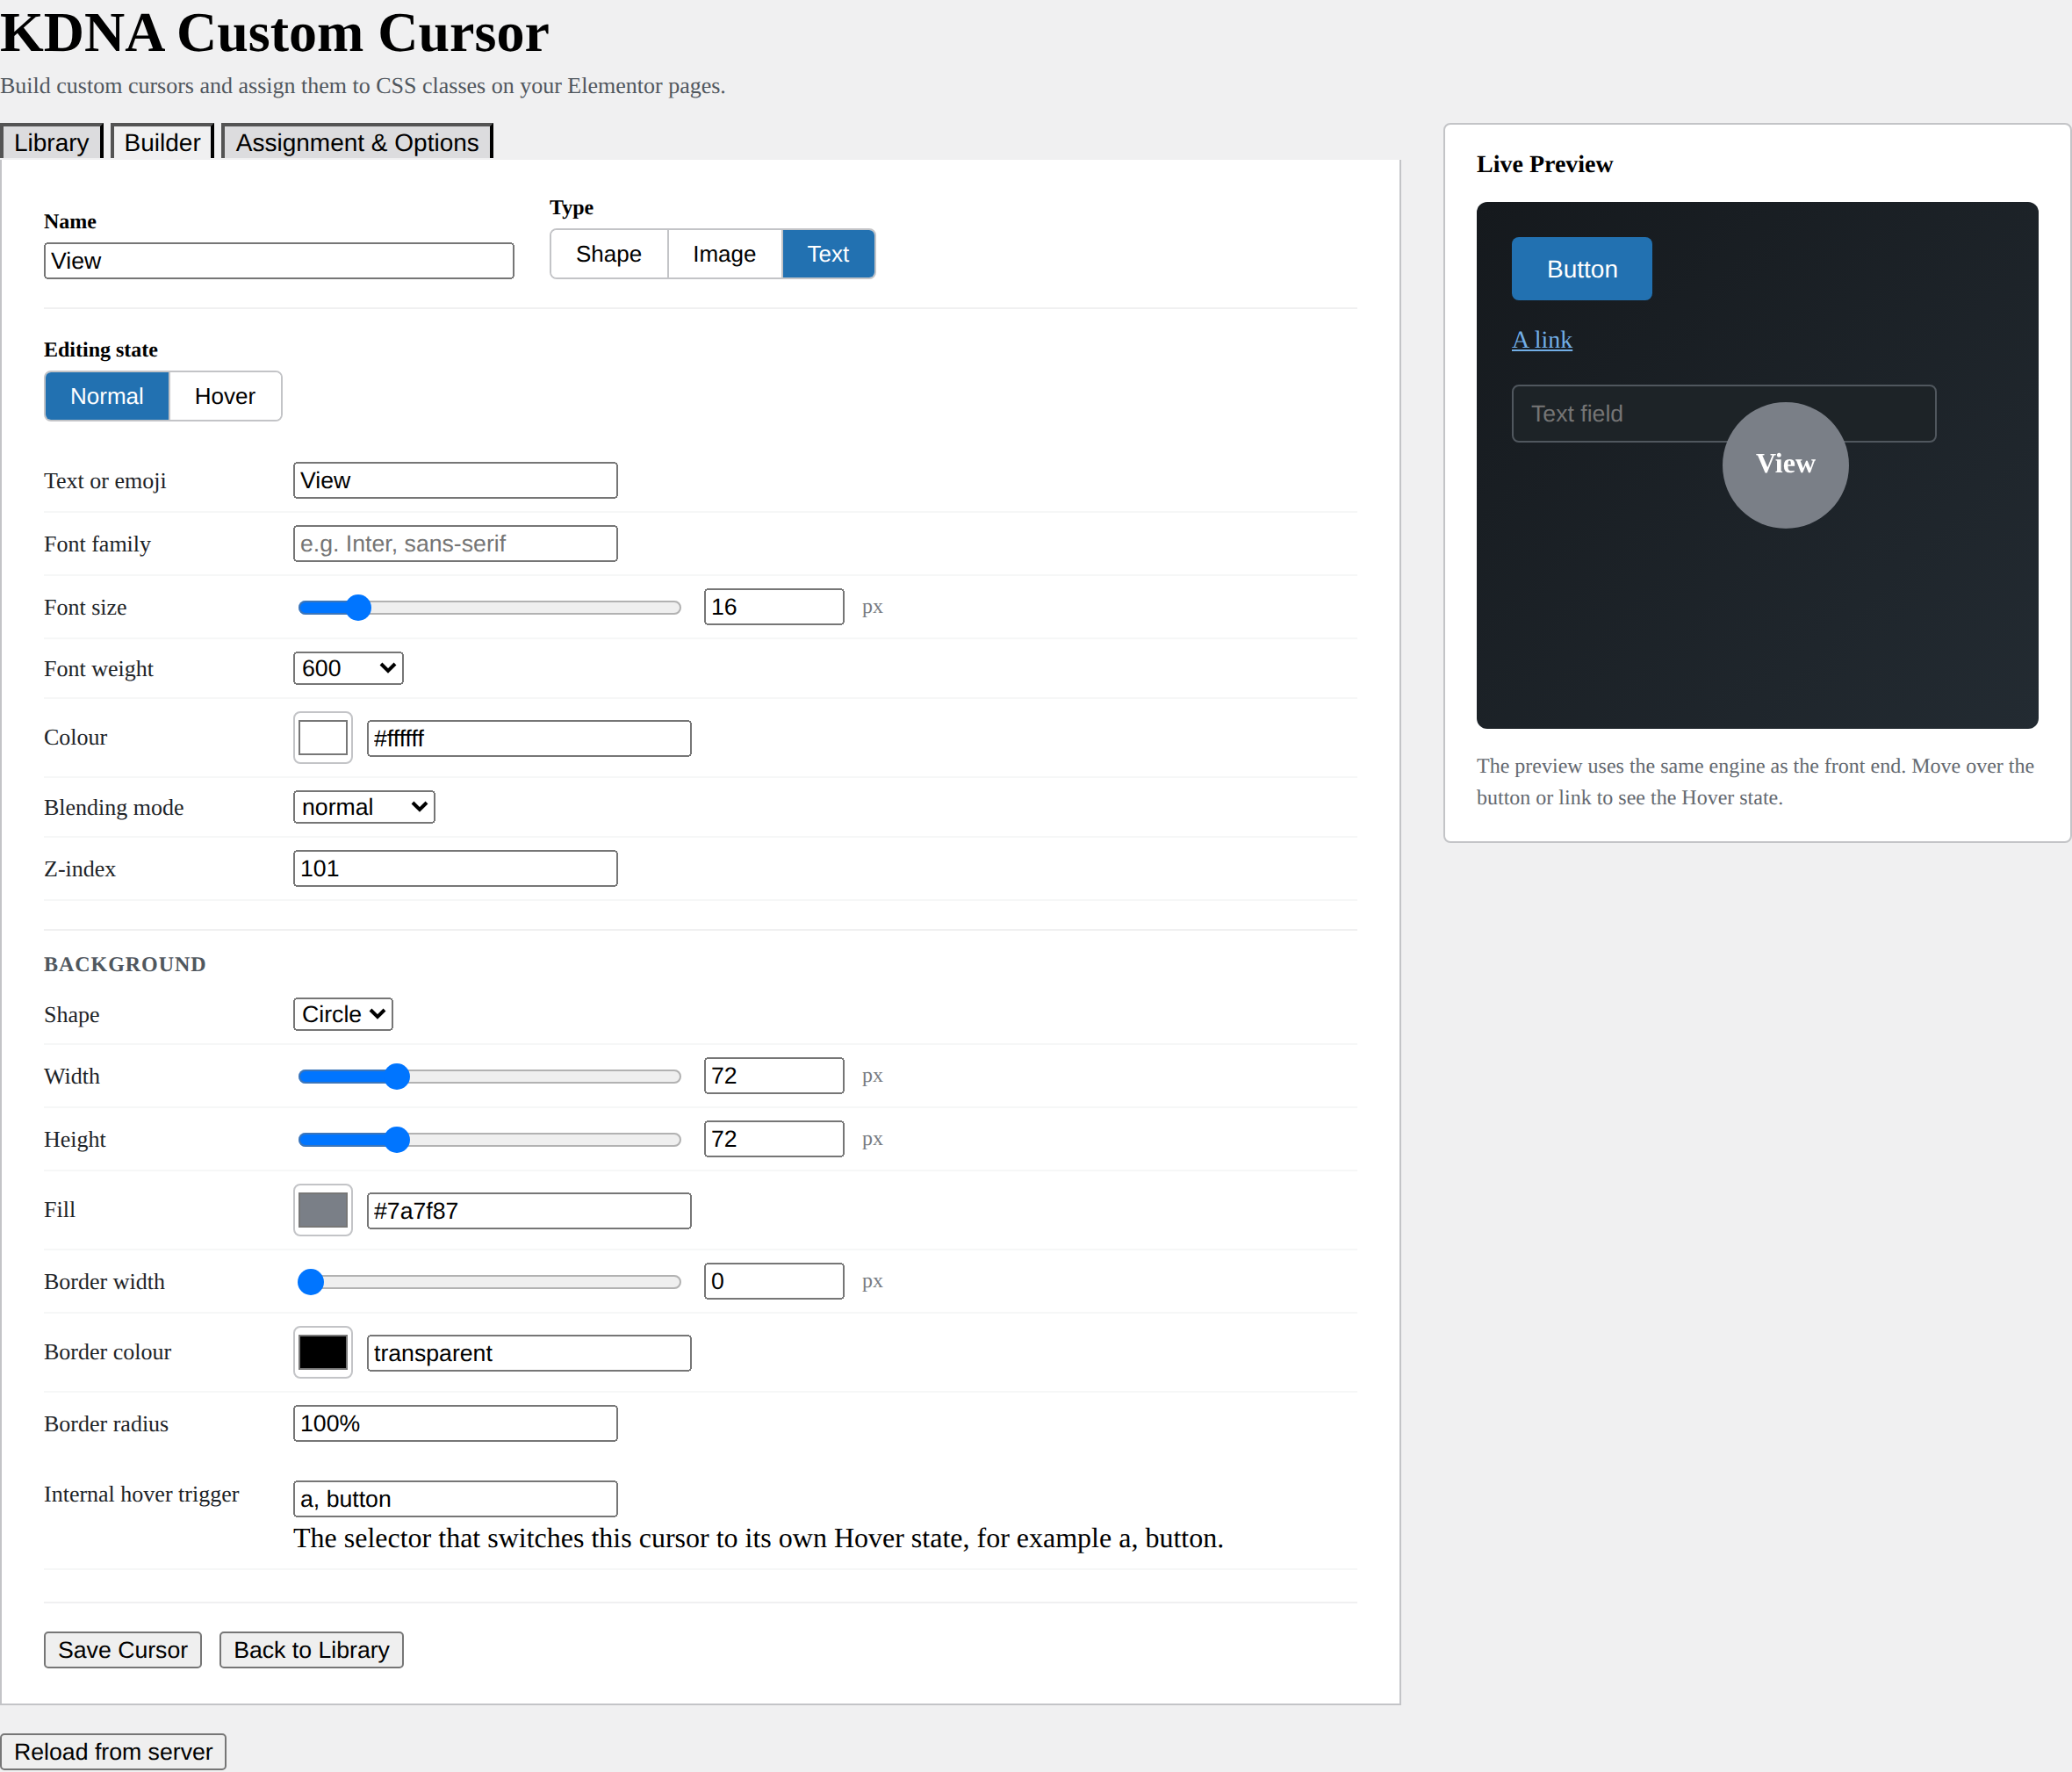
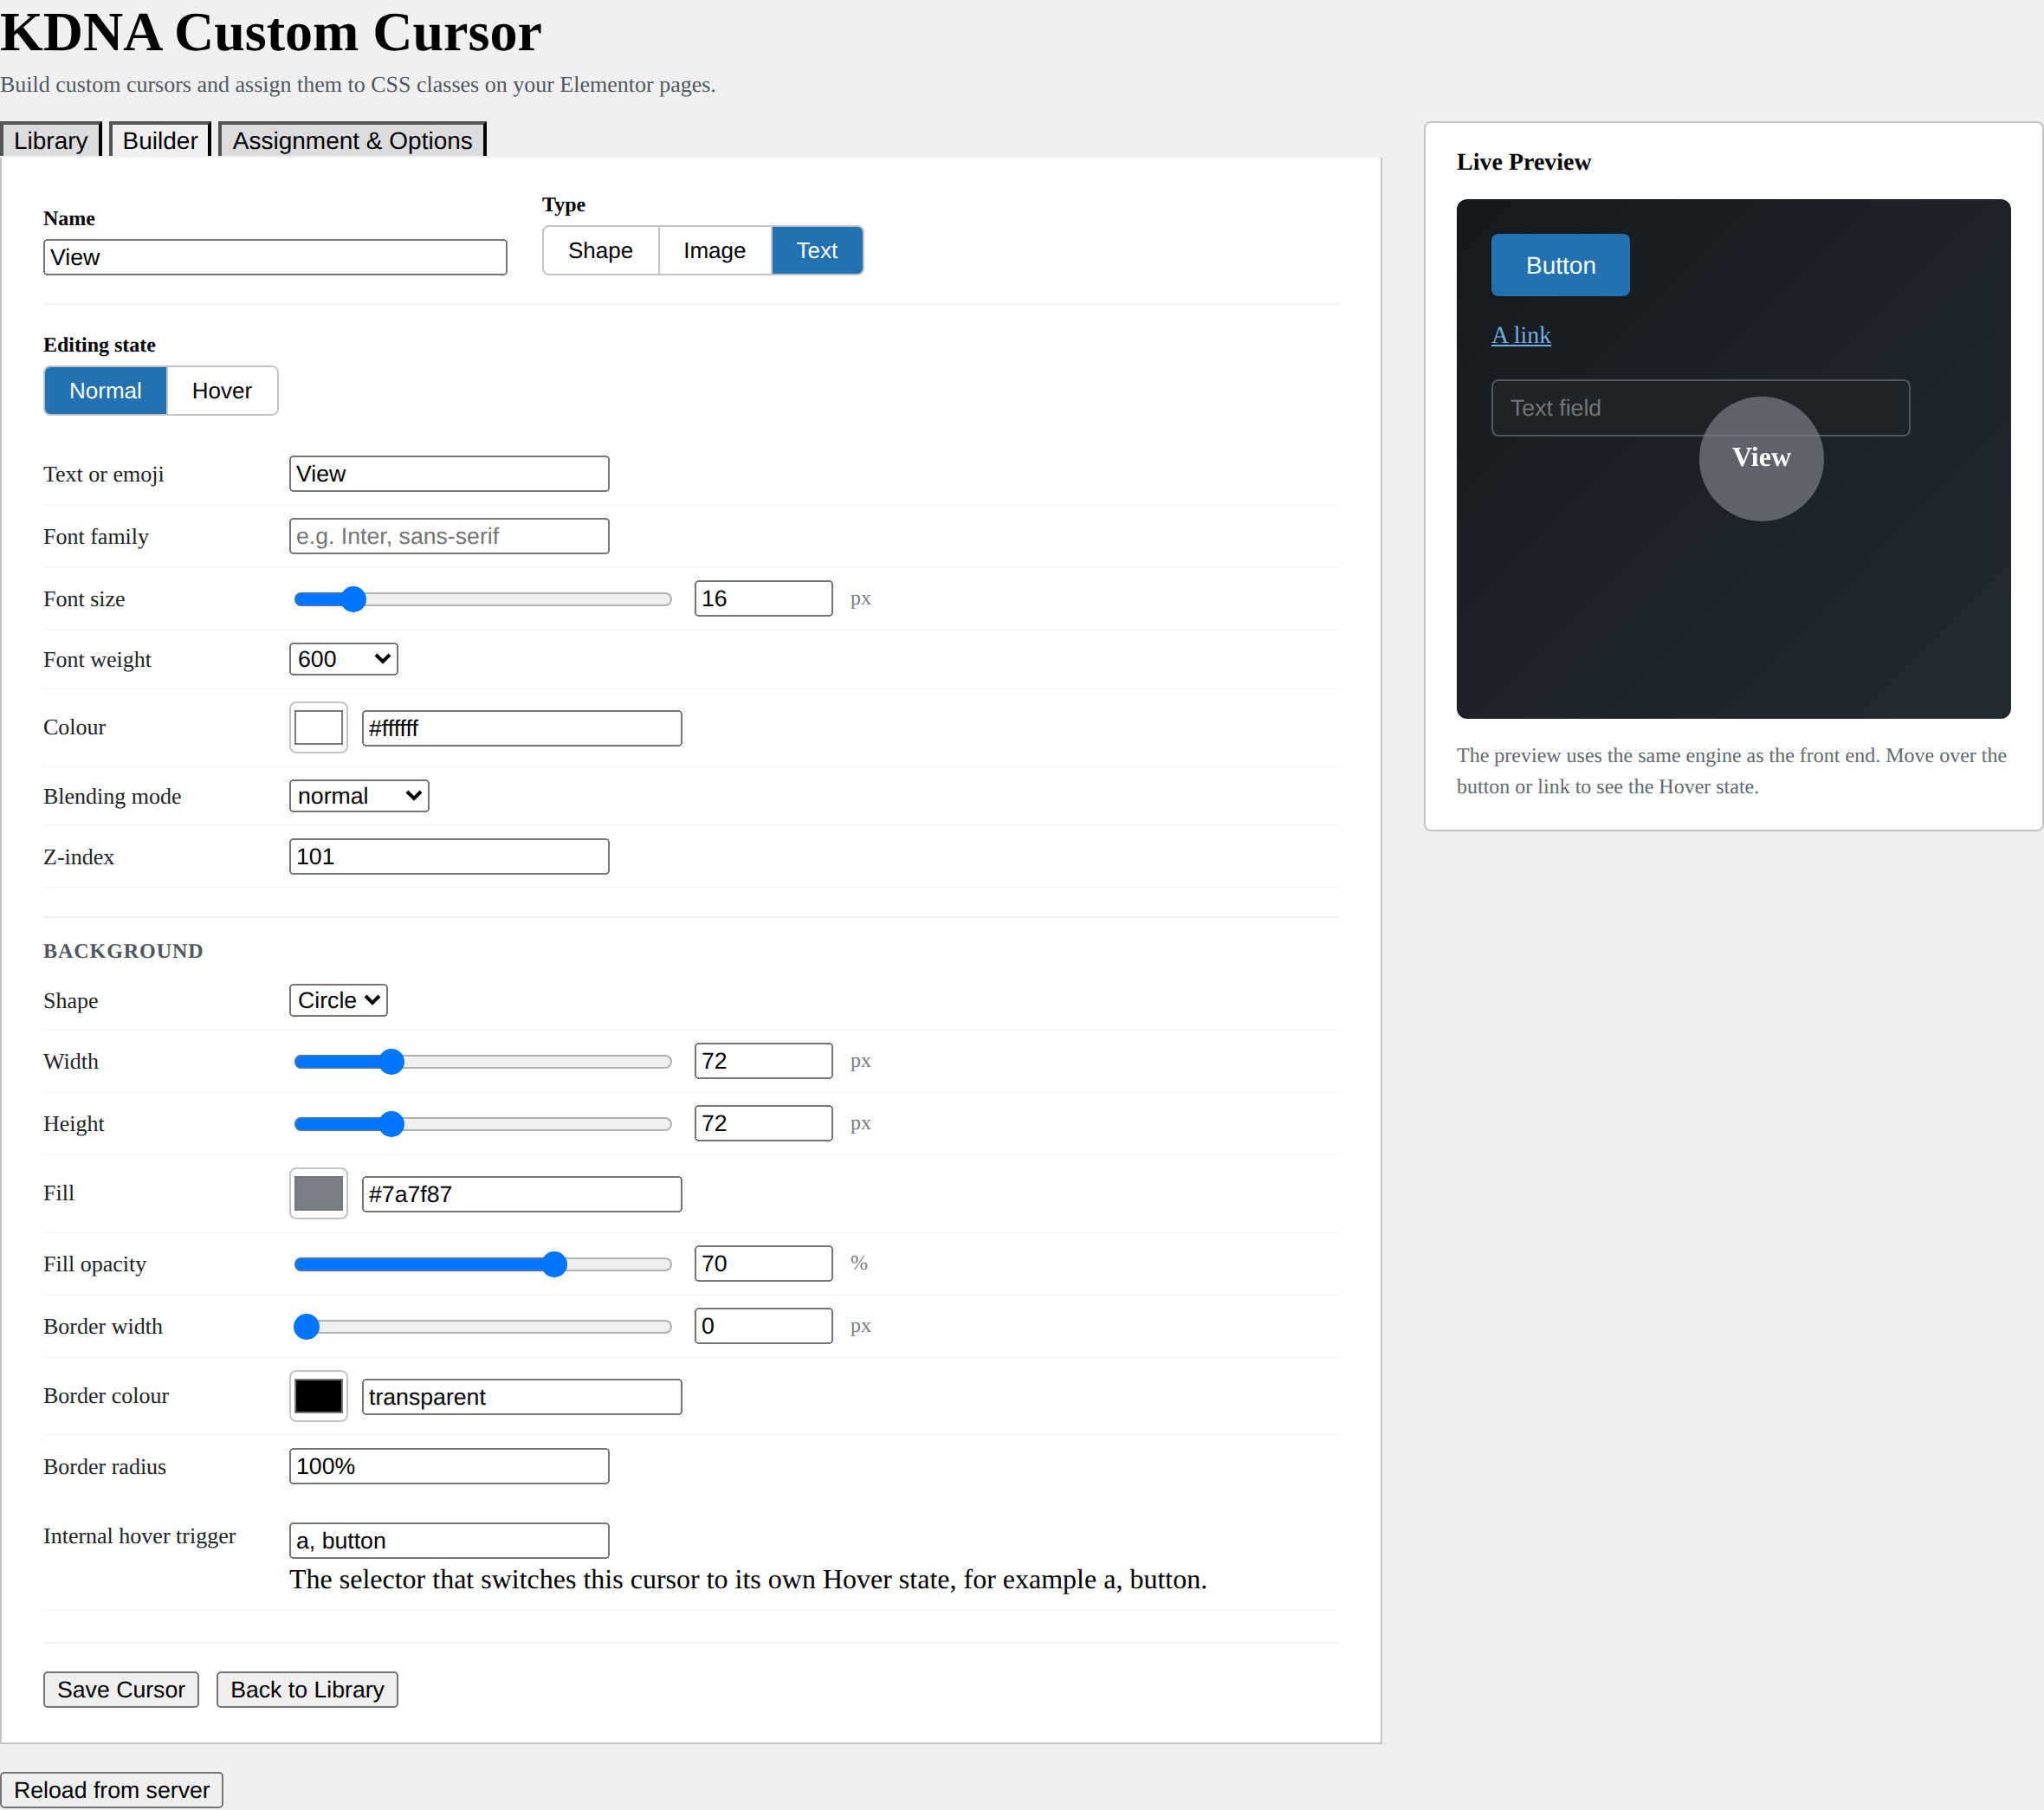
Add Fill opacity to text cursor backgrounds (v1.0.1)
Give the text cursor's background a coloured transparency.

- New Fill opacity slider (0 to 100) under the Fill colour in the Text builder
  background controls, stored as background.fillOpacity, default 100.
- The engine combines the fill colour with the opacity, resolving any CSS
  colour (named, hex, rgb) to its red, green and blue parts via the canvas and
  applying the opacity as an alpha channel, so the background fades while the
  text and border stay solid. At 100 the colour is used as is.
- The Fill field already accepted rgba and eight digit hex colours through the
  data layer sanitiser, so those continue to work for the same effect. toHex
  now strips the alpha from an eight digit hex so the colour swatch shows the
  base colour.
- Cursors saved before this version are backfilled with fillOpacity 100 when
  opened, and the slider helper now takes a unit so it can show a percent sign.
- Bump to 1.0.1. README changelog and the user guide updated, with a refreshed
  Text builder image and a new PDF.

Verified in a headless browser: solid, named, rgba and eight digit hex fills
all render with the right alpha, the slider drives the preview, and old text
cursors backfill correctly. Full regression green (120 checks). UK English, no
em dashes.

Claude-Session: https://claude.ai/code/session_01XzaF5q1ByyvoBwvpuaazcC

diff --git a/kdna-custom-cursor/assets/js/kdna-cc-engine.js b/kdna-custom-cursor/assets/js/kdna-cc-engine.js
@@ -96,6 +96,10 @@
 			return '#000000';
 		}
 		var s = String( value ).trim();
+		// Drop the alpha from an eight digit hex so the swatch shows the colour.
+		if ( /^#[0-9a-fA-F]{8}$/.test( s ) ) {
+			return s.substr( 0, 7 );
+		}
 		if ( /^#[0-9a-fA-F]{6}$/.test( s ) ) {
 			return s;
 		}
@@ -180,6 +184,59 @@
 	}
 
 	/**
+	 * Resolve any CSS colour (named, hex, rgb or rgba) to its red, green and blue
+	 * parts, using the canvas to normalise it.
+	 *
+	 * @param {string} color The colour to resolve.
+	 * @return {Array} The red, green and blue values.
+	 */
+	var _colorCtx = null;
+	function colorToRgb( color ) {
+		if ( ! _colorCtx ) {
+			_colorCtx = document.createElement( 'canvas' ).getContext( '2d' );
+		}
+		// Seed with a known colour so an unparseable value stays predictable.
+		_colorCtx.fillStyle = '#000000';
+		_colorCtx.fillStyle = color;
+		var normalised = _colorCtx.fillStyle;
+
+		if ( '#' === normalised.charAt( 0 ) ) {
+			return [
+				parseInt( normalised.substr( 1, 2 ), 16 ),
+				parseInt( normalised.substr( 3, 2 ), 16 ),
+				parseInt( normalised.substr( 5, 2 ), 16 )
+			];
+		}
+		var m = normalised.match( /rgba?\(([^)]+)\)/ );
+		if ( m ) {
+			var parts = m[ 1 ].split( ',' );
+			return [ parseFloat( parts[ 0 ] ), parseFloat( parts[ 1 ] ), parseFloat( parts[ 2 ] ) ];
+		}
+		return [ 0, 0, 0 ];
+	}
+
+	/**
+	 * Combine a fill colour with an opacity from 0 to 100.
+	 *
+	 * At 100 the colour is returned unchanged, so any alpha already in the colour
+	 * (an rgba value or an eight digit hex) is kept. Below 100 the opacity is
+	 * applied as the alpha channel.
+	 *
+	 * @param {string} fill    The fill colour.
+	 * @param {number} opacity The opacity from 0 to 100.
+	 * @return {string} The resulting colour.
+	 */
+	function fillWithOpacity( fill, opacity ) {
+		fill = fill || 'transparent';
+		var o = ( opacity === undefined || opacity === null ) ? 100 : num( opacity, 100 );
+		if ( o >= 100 || 'transparent' === fill ) {
+			return fill;
+		}
+		var rgb = colorToRgb( fill );
+		return 'rgba(' + rgb[ 0 ] + ', ' + rgb[ 1 ] + ', ' + rgb[ 2 ] + ', ' + ( o / 100 ) + ')';
+	}
+
+	/**
 	 * Apply a text layer's controls to a div element, including the optional
 	 * background shape so a word can sit inside a filled circle or pill. The
 	 * transform is never set here, the loop owns it, and the display is owned by
@@ -217,7 +274,7 @@
 		if ( hasBox ) {
 			el.style.width = num( bg.width, 0 ) + 'px';
 			el.style.height = num( bg.height, 0 ) + 'px';
-			el.style.backgroundColor = bg.fill || 'transparent';
+			el.style.backgroundColor = fillWithOpacity( bg.fill, bg.fillOpacity );
 			el.style.borderStyle = 'solid';
 			el.style.borderWidth = num( bg.borderWidth, 0 ) + 'px';
 			el.style.borderColor = bg.borderColor || 'transparent';

diff --git a/kdna-custom-cursor/admin/js/kdna-cc-admin.js b/kdna-custom-cursor/admin/js/kdna-cc-admin.js
@@ -92,7 +92,7 @@
 		return {
 			value: '', font: '', size: 16, color: '#ffffff', weight: 'normal',
 			blendMode: 'normal', zIndex: 100,
-			background: { shape: 'none', width: 70, height: 70, fill: '#808080', borderWidth: 0, borderColor: 'transparent', borderRadius: '100%' }
+			background: { shape: 'none', width: 70, height: 70, fill: '#808080', fillOpacity: 100, borderWidth: 0, borderColor: 'transparent', borderRadius: '100%' }
 		};
 	}
 
@@ -122,6 +122,26 @@
 	 */
 	function clone( value ) {
 		return JSON.parse( JSON.stringify( value ) );
+	}
+
+	/**
+	 * Fill in any newer fields a cursor saved by an earlier version may lack, so
+	 * the builder controls always have a value to bind to.
+	 *
+	 * @param {Object} cursor The cursor to normalise.
+	 * @return {Object} The same cursor.
+	 */
+	function ensureDefaults( cursor ) {
+		if ( ! cursor ) {
+			return cursor;
+		}
+		[ 'text', 'hover' ].forEach( function ( key ) {
+			var block = cursor[ key ];
+			if ( block && block.background && ( block.background.fillOpacity === undefined || block.background.fillOpacity === null ) ) {
+				block.background.fillOpacity = 100;
+			}
+		} );
+		return cursor;
 	}
 
 	// Register the component before Alpine boots.
@@ -398,7 +418,7 @@
 				 * @param {Object} preset The preset cursor to start from.
 				 */
 				usePreset: function ( preset ) {
-					var cursor = clone( preset );
+					var cursor = ensureDefaults( clone( preset ) );
 					cursor.id = uuid();
 					this.editing = cursor;
 					this.editingState = 'normal';
@@ -415,7 +435,7 @@
 					if ( ! src ) {
 						return;
 					}
-					this.editing = clone( src );
+					this.editing = ensureDefaults( clone( src ) );
 					this.editingState = 'normal';
 					this.activeTab = 'builder';
 				},

diff --git a/kdna-custom-cursor/admin/admin-page.php b/kdna-custom-cursor/admin/admin-page.php
@@ -29,9 +29,10 @@ if ( ! function_exists( 'kdna_cc_slider' ) ) {
  * @param string $label The control label.
  * @param string $path  The Alpine expression for the bound value.
  * @param int    $max   The slider maximum.
+ * @param string $unit  The unit label shown after the inputs.
  * @return void
  */
-function kdna_cc_slider( $label, $path, $max ) {
+function kdna_cc_slider( $label, $path, $max, $unit = 'px' ) {
 	?>
 	<div class="kdna-cc-control">
 		<label class="kdna-cc-control-label"><?php echo esc_html( $label ); ?></label>
@@ -39,7 +40,7 @@ function kdna_cc_slider( $label, $path, $max ) {
 			<div class="kdna-cc-range">
 				<input type="range" min="0" max="<?php echo esc_attr( $max ); ?>" step="1" x-model.number="<?php echo esc_attr( $path ); ?>">
 				<input type="number" class="small-text" min="0" max="<?php echo esc_attr( $max ); ?>" x-model.number="<?php echo esc_attr( $path ); ?>">
-				<span class="kdna-cc-unit">px</span>
+				<span class="kdna-cc-unit"><?php echo esc_html( $unit ); ?></span>
 			</div>
 		</div>
 	</div>
@@ -372,6 +373,7 @@ function kdna_cc_blend_select( $path ) {
 											<?php kdna_cc_slider( __( 'Width', 'kdna-custom-cursor' ), 'stateBlock().background.width', 300 ); ?>
 											<?php kdna_cc_slider( __( 'Height', 'kdna-custom-cursor' ), 'stateBlock().background.height', 300 ); ?>
 											<?php kdna_cc_colour( __( 'Fill', 'kdna-custom-cursor' ), 'stateBlock().background.fill' ); ?>
+											<?php kdna_cc_slider( __( 'Fill opacity', 'kdna-custom-cursor' ), 'stateBlock().background.fillOpacity', 100, '%' ); ?>
 											<?php kdna_cc_slider( __( 'Border width', 'kdna-custom-cursor' ), 'stateBlock().background.borderWidth', 20 ); ?>
 											<?php kdna_cc_colour( __( 'Border colour', 'kdna-custom-cursor' ), 'stateBlock().background.borderColor' ); ?>
 											<div class="kdna-cc-control">

diff --git a/kdna-custom-cursor/kdna-custom-cursor.php b/kdna-custom-cursor/kdna-custom-cursor.php
@@ -3,7 +3,7 @@
  * Plugin Name:       KDNA Custom Cursor
  * Plugin URI:        https://krulldna.com/
  * Description:       Build custom animated cursors in the WordPress admin and assign them to specific CSS classes on your Elementor pages, with an optional site-wide global cursor.
- * Version:           1.0.0
+ * Version:           1.0.1
  * Requires at least: 6.0
  * Requires PHP:      7.4
  * Author:            KDNA
@@ -25,7 +25,7 @@ if ( ! defined( 'ABSPATH' ) ) {
 }
 
 // Plugin version. Kept in one place so assets and the readme stay in step.
-define( 'KDNA_CC_VERSION', '1.0.0' );
+define( 'KDNA_CC_VERSION', '1.0.1' );
 
 // Absolute path to this main plugin file.
 define( 'KDNA_CC_FILE', __FILE__ );

diff --git a/kdna-custom-cursor/includes/class-kdna-cc-data.php b/kdna-custom-cursor/includes/class-kdna-cc-data.php
@@ -405,6 +405,7 @@ class KDNA_CC_Data {
 				'width'        => self::sanitize_number( $bg, 'width', 70, 0, 2000 ),
 				'height'       => self::sanitize_number( $bg, 'height', 70, 0, 2000 ),
 				'fill'         => self::sanitize_color_field( $bg, 'fill', '#808080' ),
+				'fillOpacity'  => (int) self::sanitize_number( $bg, 'fillOpacity', 100, 0, 100 ),
 				'borderWidth'  => self::sanitize_number( $bg, 'borderWidth', 0, 0, 100 ),
 				'borderColor'  => self::sanitize_color_field( $bg, 'borderColor', 'transparent' ),
 				'borderRadius' => self::sanitize_length_field( $bg, 'borderRadius', '100%' ),

diff --git a/docs/USER-GUIDE.md b/docs/USER-GUIDE.md
@@ -2,7 +2,7 @@
 
 ### User Guide
 
-Version 1.0.0
+Version 1.0.1
 
 A custom cursor builder for WordPress and Elementor, with a per-class assignment model. Build animated mouse cursors in the WordPress admin and assign them to specific CSS classes on your pages, with an optional site-wide global cursor.
 
@@ -143,8 +143,9 @@ To build a View label:
 3. Set the **Font size**, **Font weight** and **Colour** of the text. White text reads well on a dark circle.
 4. Under **Background**, set **Shape** to **Circle**.
 5. Set the circle **Width** and **Height** equal, for example `72` by `72`, and choose a **Fill** colour.
-6. Optionally add a **Border width** and **Border colour**, and adjust the **Border radius**. A circle uses `100%`. For a pill, use a wider Width than Height and a large radius.
-7. Name it **View** and select **Save Cursor**.
+6. To give the fill a coloured transparency, drag the **Fill opacity** slider beneath the fill. `100` is solid and `0` is fully see-through. The text inside stays solid, so only the background fades. You can also type an rgba value or an eight digit hex into the Fill field for the same effect, for example `rgba(122,127,135,0.5)` or `#7a7f8780`.
+7. Optionally add a **Border width** and **Border colour**, and adjust the **Border radius**. A circle uses `100%`. For a pill, use a wider Width than Height and a large radius.
+8. Name it **View** and select **Save Cursor**.
 
 To make the matching **Scroll** cursor, the quickest route is to **Duplicate** the View cursor in the Library, then change its text to `Scroll`. The two starter presets already include both.
 
@@ -193,6 +194,7 @@ The Shape builder exposes the full set of controls for the inner and the outer l
 | --- | --- | --- |
 | Width and Height | inner, outer, image, text background | Pixel sliders with a paired numeric entry |
 | Colour | inner, outer, text | Named, hex or rgba, plus transparent |
+| Fill opacity | text background | 0 to 100, gives the background fill a coloured transparency |
 | Border width and colour | inner, outer, text background | Pixels and a colour |
 | Border radius | inner, outer, text background | `100%` gives a circle, or a pixel value |
 | Transition duration and timing | shape layers | Milliseconds, with ease, ease-out, ease-in-out or linear |
@@ -385,4 +387,4 @@ To remove the plugin completely, delete it from the **Plugins** screen. Deletion
 
 ---
 
-*KDNA Custom Cursor, version 1.0.0. Built for WordPress and Elementor.*
+*KDNA Custom Cursor, version 1.0.1. Built for WordPress and Elementor.*